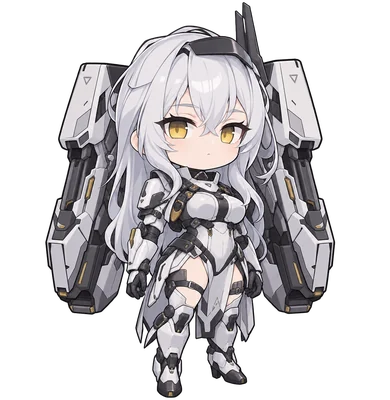
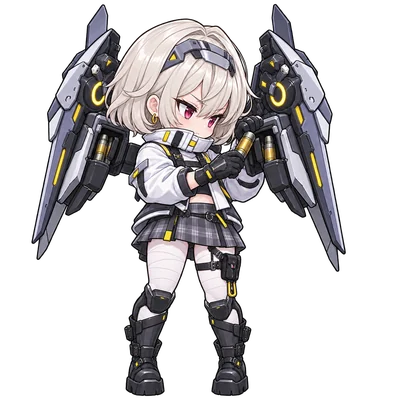
feat: replay SD for 크라운 and 나유타; redraw 스노우 화이트 : 헤비암즈 outfit
Poses captured straight from the public Spine models (aim_fire / cover_reload
/ idle) with a local capture page, then drawn standing. Snow White's outfit
now follows the model (short silver hair, visor, white cropped jacket,
harness, leg wraps). Shooting sprites read as firing forward from behind.

diff --git a/site/src/notices.ts b/site/src/notices.ts
@@ -21,6 +21,7 @@ export interface Notice {
 
 /** 최신이 맨 앞. */
 export const NOTICES: Notice[] = [
+  {id:'2026-09-23-replay-sd-crown-nayuta',date:'2026-09-23',title:'전투 결과 재생 — 크라운·나유타 SD, 스노우 화이트 : 헤비암즈 의상 수정',items:[{tag:'개선',text:'크라운(창 모양 기관총)과 나유타(원형 장치에서 쏘는 에너지탄) 전용 SD를 추가했습니다. 스노우 화이트 : 헤비암즈는 원본 의상에 맞게 다시 그렸습니다. 사격 SD는 앞쪽으로 쏘는 모습이 잘 보이도록 뒷모습으로 그립니다.'}]},
   {id:'2026-09-23-replay-sd-weapons',date:'2026-09-23',title:'전투 결과 재생 — 캐릭터 SD를 실제 무기·자세로 다시 그림',items:[{tag:'고침',text:'캐릭터 SD가 모두 비슷한 총을 들고 있던 것을 고쳤습니다. 인게임 사격·엄폐 자세를 바탕으로 라피 : 레드 후드(대형 기관총), 홍련 : 흑영(붉은 헤일로와 장검), 렘(철퇴 모양 개틀링), 아인(저격총과 니어 페더)을 다시 그렸습니다. 사격은 뒷모습, 재장전은 화면을 보는 서 있는 자세입니다.'},{tag:'개선',text:'스노우 화이트 : 헤비암즈 전용 SD를 추가했습니다. 어깨의 거대 무장으로 사격합니다.'}]},
   {id:'2026-09-23-replay-sd',date:'2026-09-23',title:'전투 결과 재생 — 캐릭터 SD 추가',items:[{tag:'개선',text:'홍련 : 흑영, 렘, 아인의 전용 SD를 넣었습니다(라피 : 레드 후드 포함 4명). 사격은 뒷모습, 재장전은 화면을 보는 앞모습입니다. 다른 니케는 계속 공통 회색 SD로 나옵니다.'}]},
   {id:'2026-09-23-replay-patterns',date:'2026-09-23',title:'전투 결과 재생 — 보스 패턴 · 디버프 · 차징 · 캐릭터 딜',items:[{tag:'개선',text:'재생 창이 준비되면 바로 재생합니다. 보스의 족자(사라짐·평타 빗나감), 속성 저지(속성 색 방패), 코어 노출, 방어력 배율, 적정거리, 샷건 표적 크기, 파츠 파괴가 화면과 진행 바에 표시됩니다.'},{tag:'새 기능',text:'보스에게 걸린 버프·디버프가 보스 위에 아이콘으로 뜨고, 보스를 누르면 목록과 남은 시간을 볼 수 있습니다. 차지 무기 니케는 머리 위에 차징 %가 오르며, 인게임처럼 풀차지 배율(기본 배율 + 차지 대미지 증가)까지 올라갑니다. 초상화 카드 아래에는 그 순간까지의 캐릭터별 딜이 나옵니다.'},{tag:'개선',text:'재장전 자세가 화면 쪽을 봅니다. 라피 : 레드 후드 전용 SD를 넣었습니다(다른 니케는 공통 회색 SD).'}]},

diff --git a/site/src/battle-replay.test.ts b/site/src/battle-replay.test.ts
@@ -128,7 +128,7 @@ describe('시각 → 상태', () => {
       expect(spriteFor(name, 'shoot')).not.toBe(DEFAULT_SD.shoot);
       expect(spriteFor(name, 'reload')).not.toBe(DEFAULT_SD.reload);
     }
-    expect(Object.keys(SD_IDS)).toEqual(expect.arrayContaining(['라피 : 레드 후드', '홍련 : 흑영', '렘', '아인', '스노우 화이트 : 헤비암즈']));
+    expect(Object.keys(SD_IDS)).toEqual(expect.arrayContaining(['라피 : 레드 후드', '홍련 : 흑영', '렘', '아인', '스노우 화이트 : 헤비암즈', '크라운', '나유타']));
   });
 
   it('캐릭터별 SD가 있으면 그걸, 없으면 회색 자리표시자', () => {

diff --git a/site/src/sd-ids.ts b/site/src/sd-ids.ts
@@ -12,4 +12,6 @@ export const SD_IDS: Record<string, number> = {
   '렘': 820,
   '아인': 391,
   '스노우 화이트 : 헤비암즈': 471,
+  '크라운': 330,
+  '나유타': 223,
 };
